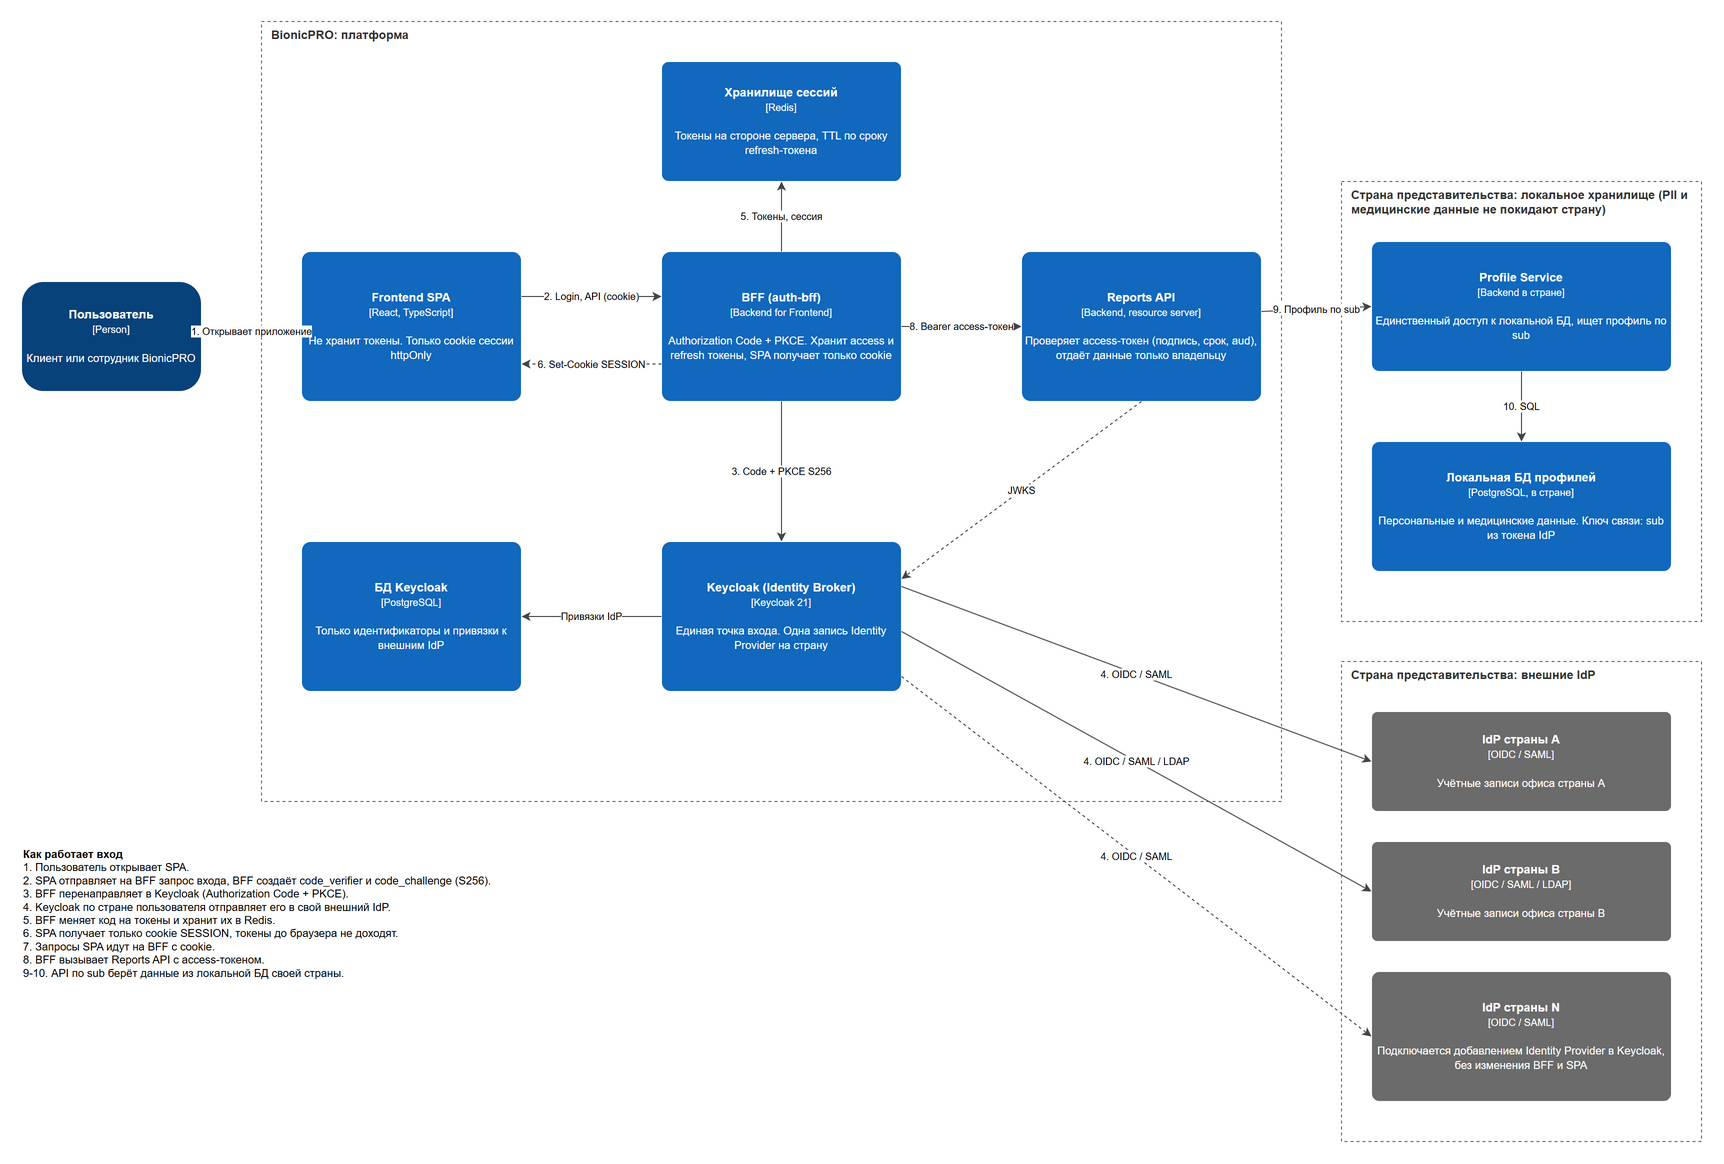
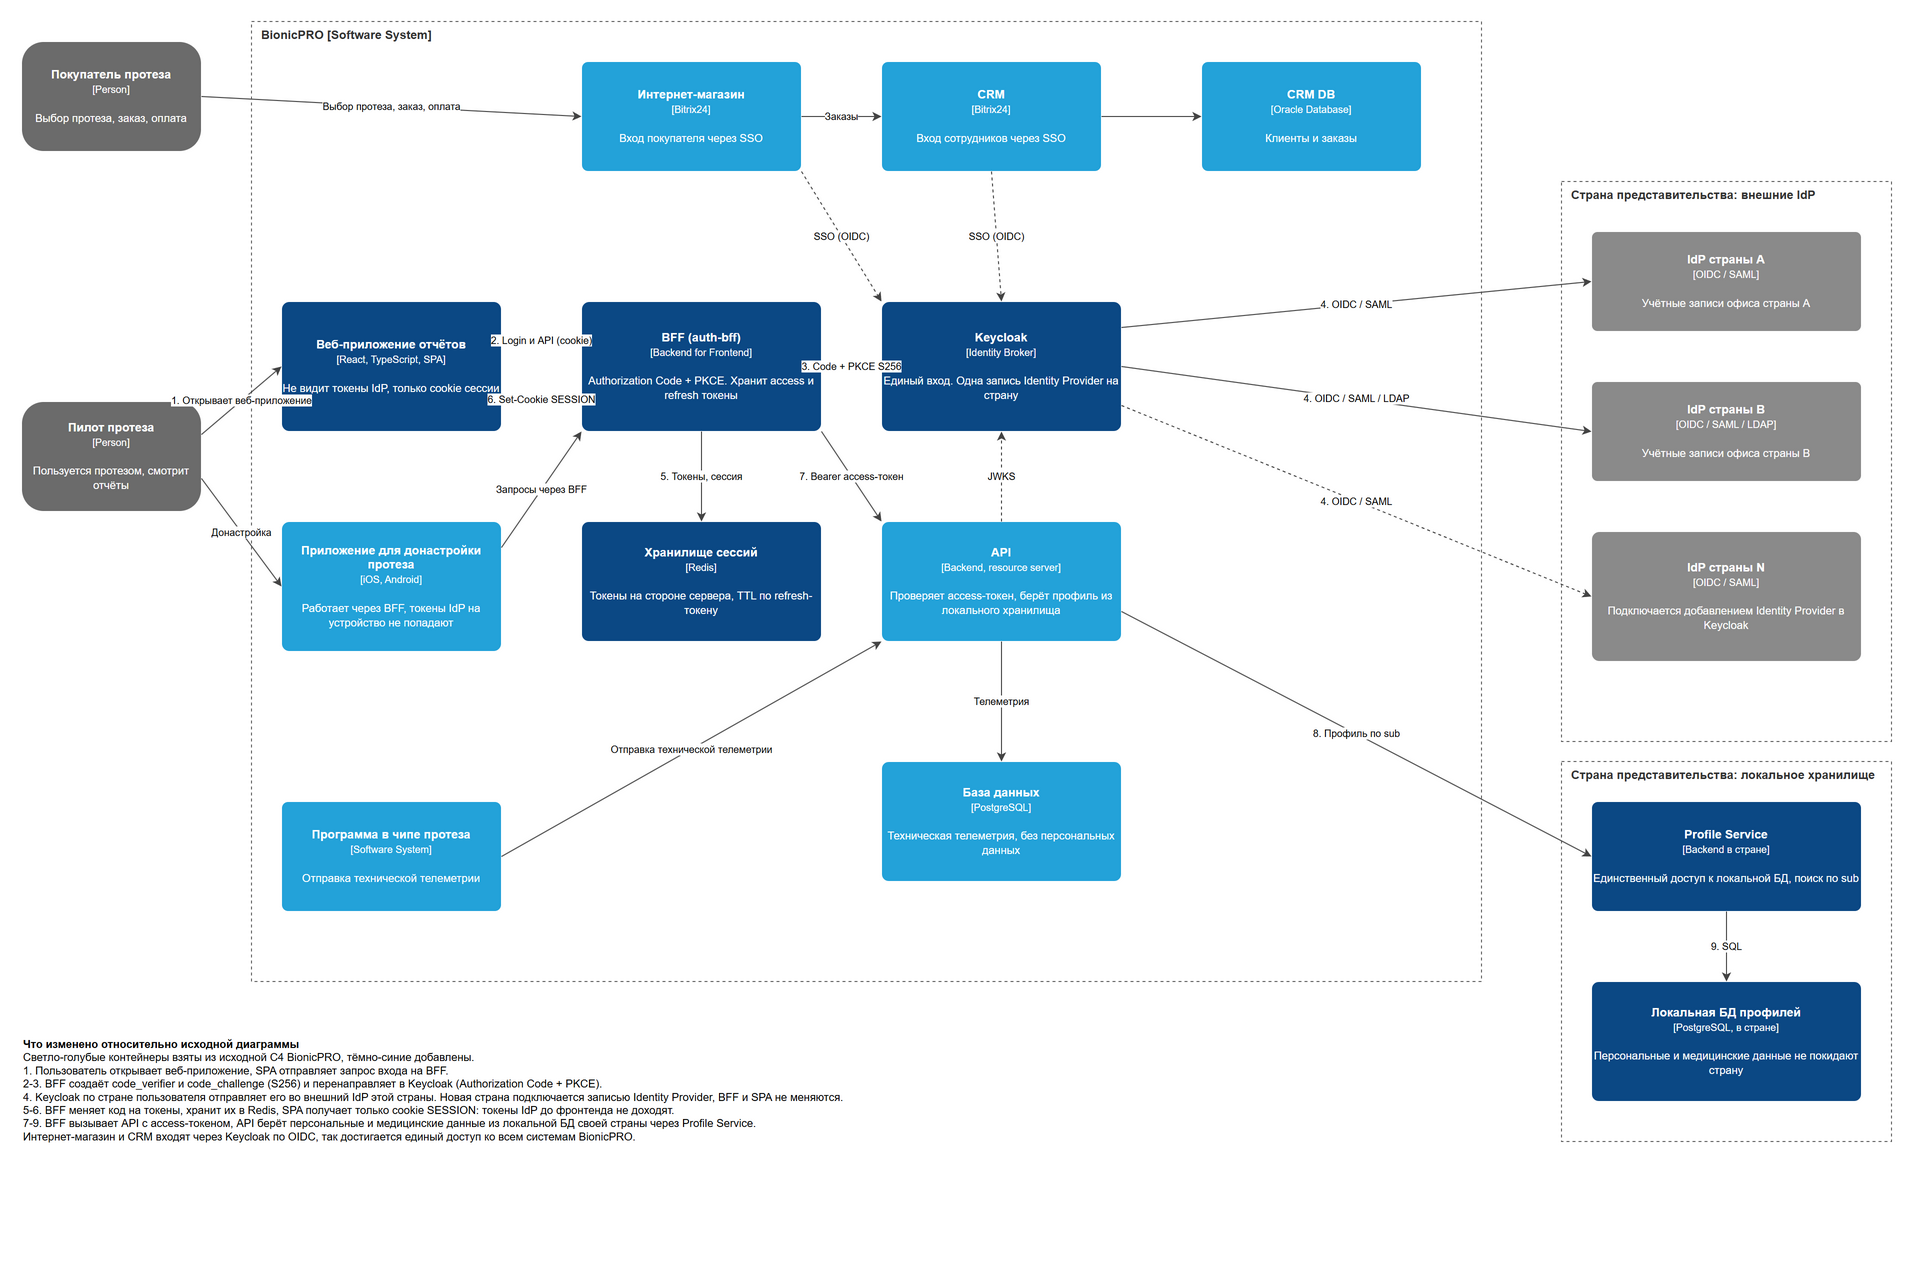
Задание 2: ETL через OLAP с JOIN в ClickHouse, сообщение о необработанном периоде, схемы на основе исходной C4

diff --git a/frontend/src/components/ReportPage.tsx b/frontend/src/components/ReportPage.tsx
@@ -15,6 +15,8 @@ interface ReportData {
   date_from: string;
   date_to: string;
   processed_through: string | null;
+  partial: boolean;
+  message: string | null;
   days: ReportDay[];
 }
 
@@ -91,6 +93,7 @@ const ReportPage: React.FC = () => {
           <table className="mt-4 text-sm border-collapse">
             <caption className="mb-2 text-left text-gray-600">
               {report.username}: данные обработаны по {report.processed_through ?? 'нет данных'}
+              {report.message && <div className="text-amber-700">{report.message}</div>}
             </caption>
             <thead>
               <tr>

diff --git a/airflow/dags/crm_to_olap.py b/airflow/dags/crm_to_olap.py
@@ -35,18 +35,21 @@ def olap_client():
 )
 def crm_to_olap():
     @task
-    def extract_crm():
+    def load_crm():
         with source_connection() as conn, conn.cursor() as cur:
             cur.execute(
                 "SELECT id, username, full_name, country, prosthesis_model FROM crm.customers"
             )
-            return [
-                {"id": r[0], "username": r[1], "full_name": r[2], "country": r[3], "model": r[4]}
-                for r in cur.fetchall()
-            ]
+            rows = [list(r) for r in cur.fetchall()]
+        olap_client().insert(
+            "reports.crm_customers",
+            rows,
+            column_names=["customer_id", "username", "full_name", "country", "prosthesis_model"],
+        )
+        return len(rows)
 
     @task
-    def extract_telemetry(data_interval_start=None, data_interval_end=None):
+    def load_telemetry(data_interval_start=None, data_interval_end=None):
         with source_connection() as conn, conn.cursor() as cur:
             cur.execute(
                 """
@@ -62,50 +65,18 @@ def crm_to_olap():
                 """,
                 (data_interval_start, data_interval_end),
             )
-            return {
-                r[0]: {
-                    "signals": int(r[1]),
-                    "movements": int(r[2]),
-                    "avg_response_ms": float(r[3]),
-                    "errors": int(r[4]),
-                    "min_battery": int(r[5]),
-                }
+            report_date = data_interval_start.date()
+            rows = [
+                [report_date, r[0], int(r[1]), int(r[2]), float(r[3]), int(r[4]), int(r[5])]
                 for r in cur.fetchall()
-            }
-
-    @task
-    def join_and_load(customers, telemetry, data_interval_start=None):
-        report_date = data_interval_start.date()
-        rows = []
-        for c in customers:
-            t = telemetry.get(str(c["id"])) or telemetry.get(c["id"])
-            if not t:
-                continue
-            rows.append(
-                [
-                    report_date,
-                    c["username"],
-                    c["full_name"],
-                    c["country"],
-                    c["model"],
-                    t["signals"],
-                    t["movements"],
-                    t["avg_response_ms"],
-                    t["errors"],
-                    t["min_battery"],
-                ]
-            )
-        client = olap_client()
+            ]
         if rows:
-            client.insert(
-                "reports.user_daily_report",
+            olap_client().insert(
+                "reports.telemetry_daily",
                 rows,
                 column_names=[
                     "report_date",
-                    "username",
-                    "full_name",
-                    "country",
-                    "prosthesis_model",
+                    "customer_id",
                     "signals_count",
                     "movements",
                     "avg_response_ms",
@@ -113,14 +84,34 @@ def crm_to_olap():
                     "min_battery_pct",
                 ],
             )
-        client.insert(
-            "reports.processed_days",
-            [[report_date]],
-            column_names=["report_date"],
-        )
         return len(rows)
 
-    join_and_load(extract_crm(), extract_telemetry())
+    @task
+    def build_mart(data_interval_start=None):
+        report_date = data_interval_start.date()
+        olap_client().command(
+            """
+            INSERT INTO reports.user_daily_report
+                (report_date, username, full_name, country, prosthesis_model,
+                 signals_count, movements, avg_response_ms, errors, min_battery_pct)
+            SELECT t.report_date, c.username, c.full_name, c.country, c.prosthesis_model,
+                   t.signals_count, t.movements, t.avg_response_ms, t.errors, t.min_battery_pct
+            FROM reports.telemetry_daily AS t FINAL
+            INNER JOIN reports.crm_customers AS c FINAL ON c.customer_id = t.customer_id
+            WHERE t.report_date = {report_date:Date}
+            """,
+            parameters={"report_date": report_date},
+        )
+
+    @task
+    def mark_processed(data_interval_start=None):
+        olap_client().insert(
+            "reports.processed_days",
+            [[data_interval_start.date()]],
+            column_names=["report_date"],
+        )
+
+    [load_crm(), load_telemetry()] >> build_mart() >> mark_processed()
 
 
 crm_to_olap()

diff --git a/backend/app/olap.py b/backend/app/olap.py
@@ -31,11 +31,19 @@ def fetch_report(username: str, date_from: date, date_to: date) -> dict:
         """,
         parameters={"username": username, "date_from": date_from, "date_to": date_to},
     ).result_rows
+    processed = processed_through if processed_through and processed_through.year > 1970 else None
+    beyond = processed is None or date_to > processed
     return {
         "username": username,
         "date_from": date_from.isoformat(),
         "date_to": date_to.isoformat(),
-        "processed_through": processed_through.isoformat() if processed_through and processed_through.year > 1970 else None,
+        "processed_through": processed.isoformat() if processed else None,
+        "partial": beyond,
+        "message": (
+            "Часть периода ещё не обработана, отчёт показан только за обработанные дни"
+            if beyond
+            else None
+        ),
         "days": [
             {
                 "date": r[0].isoformat(),

diff --git a/Task2/README.md b/Task2/README.md
@@ -4,7 +4,7 @@
 
 | Путь | Содержимое |
 |------|-----------|
-| `Task2/BionicPRO_reports_architecture.drawio`, `.png` | Схема: Airflow ETL, ClickHouse, Reports API |
+| `Task2/BionicPRO_reports_architecture.drawio`, `.png` | Схема: Airflow ETL, ClickHouse и API на основе исходной C4-диаграммы |
 | `airflow/` | Образ Airflow и DAG `dags/crm_to_olap.py` |
 | `sources/` | Схемы и данные CRM и телеметрии (PostgreSQL) |
 | `clickhouse/init.sql` | Витрина `user_daily_report` и таблица `processed_days` |
@@ -14,9 +14,9 @@
 
 ## Как работает
 
-1. DAG `crm_to_olap` запускается ежедневно (`catchup=True` догоняет дни с 1 ноября 2026). Он читает клиентов из CRM и суточную телеметрию, объединяет их и пишет одну строку на клиента и день в `reports.user_daily_report`. Последним шагом день записывается в `reports.processed_days`.
+1. DAG `crm_to_olap` запускается ежедневно (`catchup=True` догоняет дни с 1 ноября 2026). Задачи: `load_crm` копирует клиентов из CRM в `reports.crm_customers`, `load_telemetry` агрегирует телеметрию за сутки по клиентам в `reports.telemetry_daily`, `build_mart` объединяет их запросом `INSERT ... SELECT ... JOIN` в витрину `reports.user_daily_report` (строка на клиента и день), `mark_processed` записывает день в `reports.processed_days`.
 2. `GET /reports?date_from=&date_to=` берёт имя пользователя только из проверенного токена Keycloak. Без токена ответ 401, без роли `prothetic_user` ответ 403.
-3. Запрос объединяет витрину с `processed_days`, поэтому в отчёт попадают только дни, которые Airflow уже обработал. Дата последнего обработанного дня возвращается в поле `processed_through`.
+3. Запрос объединяет витрину с `processed_days`, поэтому в отчёт попадают только дни, которые Airflow уже обработал. Дата последнего обработанного дня возвращается в поле `processed_through`, а если запрошенный период выходит за неё, ответ содержит `partial: true` и сообщение, а интерфейс показывает предупреждение.
 4. Повторный запуск DAG за тот же день не создаёт дублей: таблицы ReplacingMergeTree читаются с `FINAL`.
 
 ## Запуск
